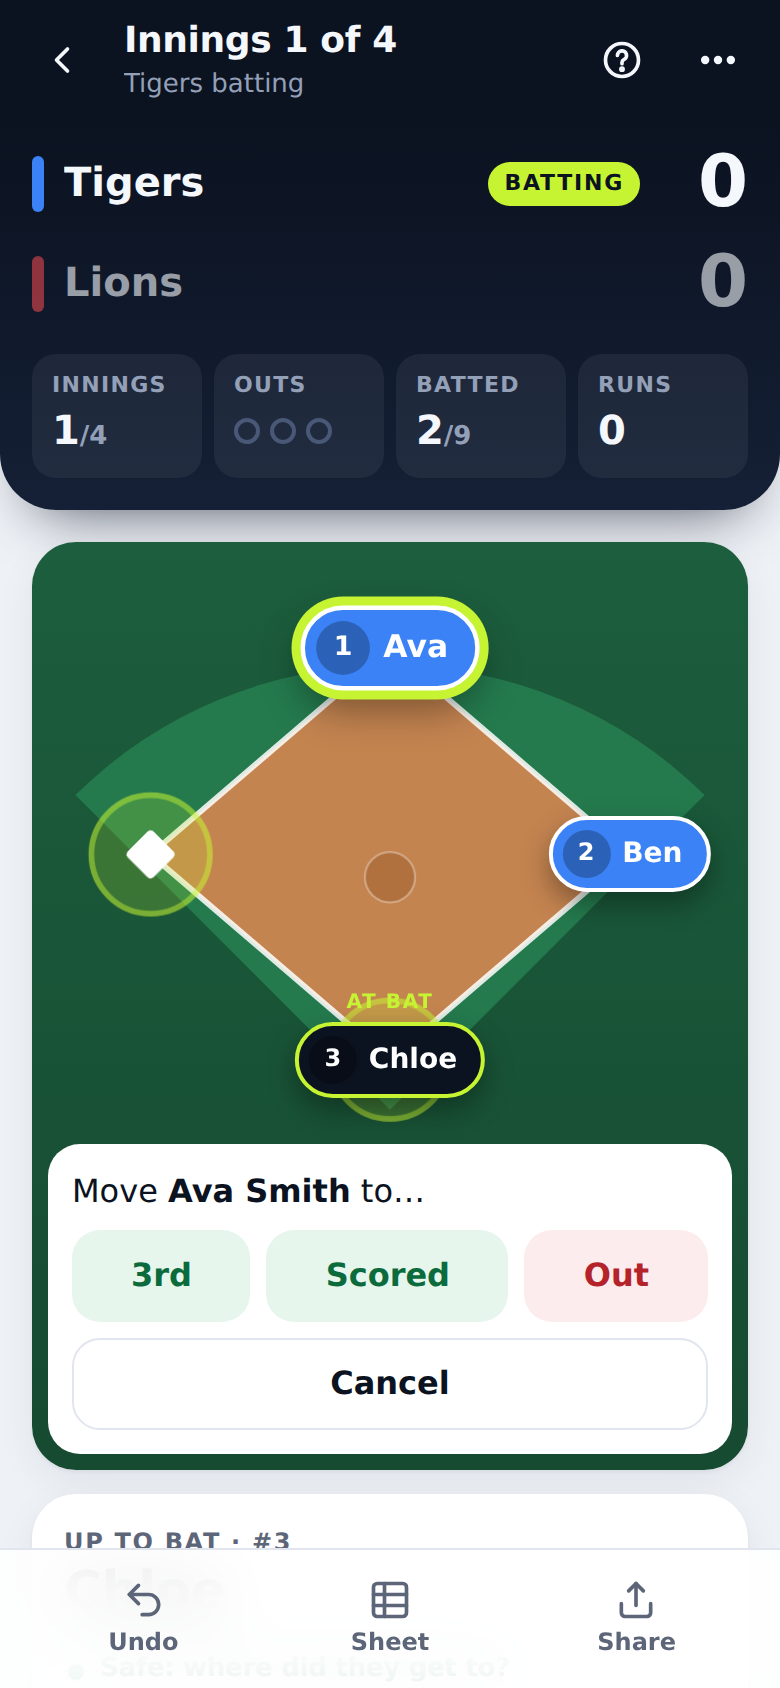
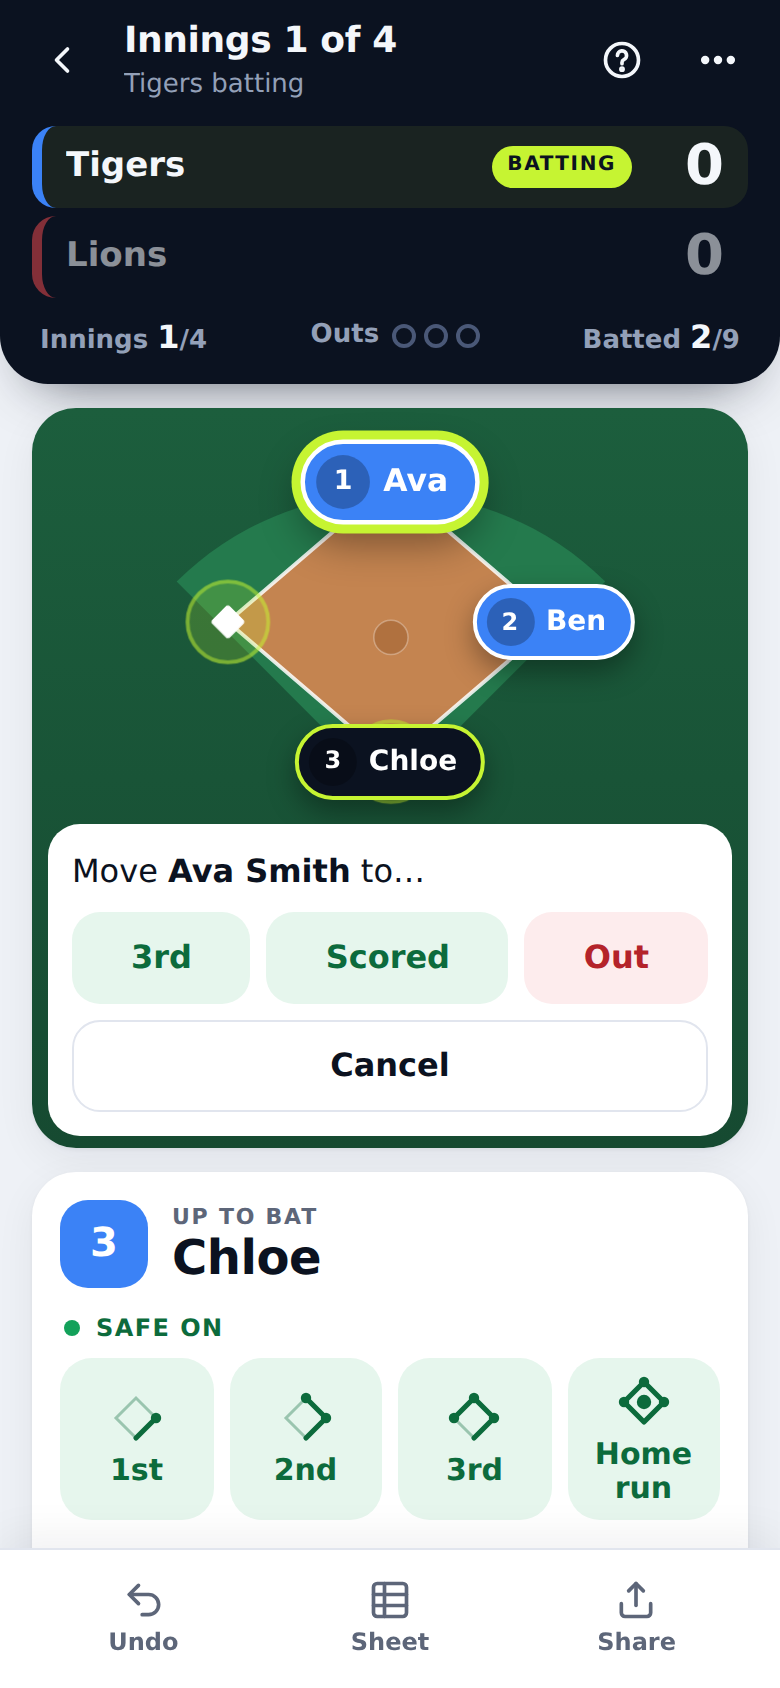
Clean up scoring screen: fix overlapping Out buttons, no text selection
- Fix Out buttons collapsing over the Scoresheet card (class clash
  with the outs counter)
- Slimmer scoreboard, smaller diamond and compact play buttons so all
  plays fit on one phone screen
- Coach tips move inside the panel and show during the first innings
- Toasts at the top so they never cover buttons; solid bottom bar
- Disable text selection, long-press callouts and double-tap zoom
  outside form fields

Claude-Session: https://claude.ai/code/session_01E99a7UZbF6EMRnxmZx3Hv6

diff --git a/css/style.css b/css/style.css
@@ -53,8 +53,14 @@ body {
   font: 16px/1.45 var(--font);
   -webkit-font-smoothing: antialiased;
   -webkit-tap-highlight-color: transparent;
+  -webkit-user-select: none;
+  user-select: none;
+  -webkit-touch-callout: none;
+  touch-action: manipulation;
   min-height: 100vh;
 }
+input, textarea { -webkit-user-select: text; user-select: text; -webkit-touch-callout: default; }
+img, svg, canvas { -webkit-user-drag: none; }
 [hidden] { display: none !important; }
 button { font: inherit; color: inherit; cursor: pointer; }
 button:disabled { cursor: default; }
@@ -86,7 +92,8 @@ h1, h2, h3, h4 { letter-spacing: -.01em; }
 .icon-btn.sm { width: 34px; height: 34px; border-radius: 10px; }
 .icon-btn.sm svg { width: 18px; height: 18px; }
 
-main { max-width: 640px; margin: 0 auto; padding: 16px 16px calc(env(safe-area-inset-bottom) + 110px); }
+main { max-width: 640px; margin: 0 auto; padding: 16px 16px calc(env(safe-area-inset-bottom) + 96px); }
+main.score { padding-top: 12px; }
 .section { font-size: 13px; font-weight: 700; text-transform: uppercase; letter-spacing: .06em; color: var(--muted); margin: 24px 4px 10px; }
 .muted { color: var(--muted); font-size: 14px; }
 .lead { color: var(--muted); margin: 4px 4px 16px; }
@@ -259,8 +266,7 @@ main { max-width: 640px; margin: 0 auto; padding: 16px 16px calc(env(safe-area-i
 .action-bar {
   position: fixed; left: 0; right: 0; bottom: 0; z-index: 10;
   display: flex; gap: 10px; padding: 12px 16px calc(env(safe-area-inset-bottom) + 12px);
-  background: color-mix(in srgb, var(--bg) 85%, transparent);
-  backdrop-filter: blur(16px); -webkit-backdrop-filter: blur(16px);
+  background: var(--bg);
   border-top: 1px solid var(--line);
 }
 .action-bar > * { max-width: 640px; }
@@ -268,25 +274,29 @@ main { max-width: 640px; margin: 0 auto; padding: 16px 16px calc(env(safe-area-i
 
 /* ---------- scoreboard ---------- */
 .scoreboard {
-  background: linear-gradient(180deg, var(--hero), var(--hero-2)); color: var(--hero-ink);
-  padding: 6px 16px 16px; border-radius: 0 0 28px 28px;
-  box-shadow: 0 16px 30px -18px rgba(11, 18, 32, .8);
+  background: var(--hero); color: var(--hero-ink);
+  padding: 2px 16px 12px; border-radius: 0 0 24px 24px;
+  box-shadow: 0 14px 28px -18px rgba(11, 18, 32, .8);
 }
 .scoreboard > * { max-width: 608px; margin-left: auto; margin-right: auto; }
-.sb-row { display: flex; align-items: center; gap: 10px; padding: 7px 0; opacity: .6; transition: opacity .2s; }
-.sb-row.batting { opacity: 1; }
-.sb-color { width: 6px; height: 28px; border-radius: 3px; background: var(--team); flex: none; }
-.sb-name { flex: 1; min-width: 0; font-size: 20px; font-weight: 800; overflow: hidden; white-space: nowrap; text-overflow: ellipsis; }
-.sb-bat { font-size: 11px; font-weight: 900; text-transform: uppercase; letter-spacing: .08em; padding: 3px 8px; border-radius: 999px; background: var(--accent); color: var(--accent-ink); }
-.sb-runs { font-size: 36px; font-weight: 900; line-height: 1; min-width: 44px; text-align: right; font-variant-numeric: tabular-nums; }
-.sb-meta { display: grid; grid-template-columns: repeat(4, 1fr); gap: 6px; margin-top: 10px; }
-.sb-meta > div { background: rgba(255, 255, 255, .06); border-radius: 12px; padding: 8px 10px; }
-.sb-meta small { display: block; font-size: 11px; font-weight: 700; text-transform: uppercase; letter-spacing: .06em; color: var(--hero-muted); }
-.sb-meta b { font-size: 20px; font-weight: 900; font-variant-numeric: tabular-nums; }
-.sb-meta em { font-style: normal; font-size: 13px; color: var(--hero-muted); font-weight: 700; }
-.outs { display: flex; gap: 5px; height: 30px; align-items: center; }
-.outs i { width: 13px; height: 13px; border-radius: 50%; border: 2px solid #4a5877; }
-.outs i.on { background: var(--out); border-color: var(--out); box-shadow: 0 0 10px rgba(229, 72, 77, .6); }
+.sb-teams { display: grid; gap: 4px; }
+.sb-team {
+  display: flex; align-items: center; gap: 10px; min-width: 0;
+  padding: 5px 12px; border-radius: 12px; border-left: 5px solid var(--team); opacity: .55;
+}
+.sb-team.batting { opacity: 1; background: rgba(198, 244, 50, .08); }
+.sb-name { flex: 1; min-width: 0; font-weight: 800; font-size: 17px; overflow: hidden; white-space: nowrap; text-overflow: ellipsis; }
+.sb-team small { flex: none; font-size: 10px; font-weight: 900; text-transform: uppercase; letter-spacing: .08em; padding: 3px 8px; border-radius: 999px; background: var(--accent); color: var(--accent-ink); }
+.sb-runs { flex: none; min-width: 36px; text-align: right; font-size: 28px; font-weight: 900; line-height: 1.1; font-variant-numeric: tabular-nums; }
+.sb-strip {
+  display: flex; justify-content: space-between; align-items: center; gap: 8px;
+  margin-top: 8px; padding: 0 4px; font-size: 13px; color: var(--hero-muted); font-weight: 600;
+}
+.sb-strip b { color: var(--hero-ink); font-size: 16px; font-weight: 900; }
+.sb-outs { display: flex; align-items: center; gap: 6px; }
+.out-dots { display: inline-flex; gap: 4px; }
+.out-dots i { width: 12px; height: 12px; border-radius: 50%; border: 2px solid #4a5877; }
+.out-dots i.on { background: var(--out); border-color: var(--out); box-shadow: 0 0 8px rgba(229, 72, 77, .6); }
 
 /* ---------- coach tip ---------- */
 .tip {
@@ -299,9 +309,14 @@ main { max-width: 640px; margin: 0 auto; padding: 16px 16px calc(env(safe-area-i
 .tip p { flex: 1; margin: 0; }
 .tip.warn, .tip.backup { border-left-color: #f5a524; align-items: center; }
 
+.coach { display: flex; align-items: center; gap: 8px; margin: 0 0 4px; padding: 8px 4px 8px 10px; border-radius: 12px; background: var(--surface-2); font-size: 13px; color: var(--muted); }
+.coach > svg { flex: none; width: 18px; height: 18px; }
+.coach p { flex: 1; margin: 0; }
+.coach .icon-btn { width: 28px; height: 28px; }
+
 /* ---------- field / diamond ---------- */
-.field-card { background: linear-gradient(180deg, #1c5e3d, #164a31); border-radius: 22px; padding: 8px; margin-bottom: 12px; box-shadow: var(--shadow); }
-.field { position: relative; aspect-ratio: 300 / 250; max-width: calc(34vh * 1.2); margin: 0 auto; }
+.field-card { background: linear-gradient(180deg, #1c5e3d, #164a31); border-radius: 22px; padding: 6px 8px; margin-bottom: 12px; box-shadow: var(--shadow); }
+.field { position: relative; aspect-ratio: 300 / 250; max-width: calc(23vh * 1.2); margin: 0 auto; }
 .field svg { position: absolute; inset: 0; width: 100%; height: 100%; }
 .grass { fill: #247a4d; }
 .dirt { fill: #c48450; }
@@ -325,7 +340,6 @@ main { max-width: 640px; margin: 0 auto; padding: 16px 16px calc(env(safe-area-i
 .chip.pop { animation: pop .35s ease; }
 .chip:disabled { opacity: .8; }
 .chip.batter { background: var(--hero); border-color: var(--accent); }
-.chip.batter::after { content: "AT BAT"; position: absolute; top: -18px; left: 50%; transform: translateX(-50%); font-size: 10px; letter-spacing: .08em; color: var(--accent); }
 .runner-panel { background: var(--surface); border-radius: 16px; padding: 12px; margin-top: 8px; animation: rise .2s ease both; }
 .runner-panel p { margin: 0 0 8px; }
 .runner-panel small { display: block; color: var(--muted); margin-top: 8px; }
@@ -333,27 +347,32 @@ main { max-width: 640px; margin: 0 auto; padding: 16px 16px calc(env(safe-area-i
 .runner-btns .btn { flex: 1 1 auto; min-height: 46px; padding: 8px 14px; }
 
 /* ---------- action panel ---------- */
-.panel { background: var(--surface); border-radius: 22px; box-shadow: var(--shadow); padding: 16px; margin-bottom: 12px; }
+.panel { background: var(--surface); border-radius: 22px; box-shadow: var(--shadow); padding: 14px; margin-bottom: 12px; }
 .panel-head small { display: block; font-size: 12px; font-weight: 800; text-transform: uppercase; letter-spacing: .07em; color: var(--muted); }
-.panel-head h2 { margin: 2px 0 12px; font-size: 26px; font-weight: 900; line-height: 1.15; }
-.group { font-size: 13px; font-weight: 800; margin: 14px 2px 8px; display: flex; align-items: center; gap: 8px; }
+.panel-head h2 { margin: 2px 0 10px; font-size: 22px; font-weight: 900; line-height: 1.15; }
+.group { font-size: 12px; font-weight: 800; text-transform: uppercase; letter-spacing: .06em; margin: 12px 2px 6px; display: flex; align-items: center; gap: 8px; }
 .group::before { content: ""; width: 8px; height: 8px; border-radius: 50%; }
 .safe-t { color: var(--safe-ink); } .safe-t::before { background: var(--safe); }
 .out-t { color: var(--out-ink); } .out-t::before { background: var(--out); }
-.plays { display: grid; grid-template-columns: repeat(2, 1fr); gap: 8px; }
-.plays.outs { grid-template-columns: repeat(3, 1fr); }
-@media (min-width: 520px) { .plays { grid-template-columns: repeat(4, 1fr); } }
+.batter-row { display: flex; align-items: center; gap: 12px; margin-bottom: 8px; }
+.batter-row small { display: block; font-size: 11px; font-weight: 800; text-transform: uppercase; letter-spacing: .08em; color: var(--muted); }
+.batter-row h2 { margin: 0; font-size: 24px; font-weight: 900; line-height: 1.1; overflow: hidden; text-overflow: ellipsis; white-space: nowrap; }
+.batter-row > div { min-width: 0; }
+.num-badge { flex: none; width: 44px; height: 44px; border-radius: 14px; display: grid; place-items: center; background: var(--team); color: #fff; font-size: 20px; font-weight: 900; }
+.plays { display: grid; gap: 8px; }
+.plays.hits { grid-template-columns: repeat(4, 1fr); }
+.plays.outplays { grid-template-columns: repeat(3, 1fr); }
 .play {
-  display: flex; flex-direction: column; align-items: flex-start; gap: 2px; text-align: left;
-  padding: 12px; min-height: 92px; border: 0; border-radius: 16px;
+  display: flex; flex-direction: column; align-items: center; justify-content: center; gap: 4px; text-align: center;
+  padding: 8px 4px; min-height: 66px; border: 0; border-radius: 16px; min-width: 0;
   transition: transform .08s ease;
 }
-.play:active { transform: scale(.96); }
-.play b { font-size: 16px; font-weight: 800; line-height: 1.15; margin-top: 4px; }
-.play small { font-size: 12px; opacity: .8; line-height: 1.25; }
+.play:active { transform: scale(.95); }
+.play b { font-size: 15px; font-weight: 800; line-height: 1.1; }
+.play small { font-size: 11px; opacity: .8; line-height: 1.2; }
 .play.safe { background: var(--safe-bg); color: var(--safe-ink); }
 .play.out { background: var(--out-bg); color: var(--out-ink); }
-.play .glyph { width: 28px; height: 28px; border-radius: 50%; display: grid; place-items: center; border: 2px solid currentColor; font-weight: 900; font-size: 14px; }
+.play .glyph { width: 26px; height: 26px; border-radius: 50%; display: grid; place-items: center; border: 2px solid currentColor; font-weight: 900; font-size: 14px; }
 .mini { width: 28px; height: 28px; }
 .md-base { fill: none; stroke: currentColor; stroke-width: 1.5; opacity: .35; }
 .md-run { fill: none; stroke: currentColor; stroke-width: 2.6; stroke-linecap: round; stroke-linejoin: round; }
@@ -381,9 +400,9 @@ main { max-width: 640px; margin: 0 auto; padding: 16px 16px calc(env(safe-area-i
   position: fixed; left: 0; right: 0; bottom: 0; z-index: 10;
   display: flex; justify-content: center; gap: 4px;
   padding: 6px 12px calc(env(safe-area-inset-bottom) + 6px);
-  background: color-mix(in srgb, var(--surface) 88%, transparent);
-  backdrop-filter: blur(16px); -webkit-backdrop-filter: blur(16px);
+  background: var(--surface);
   border-top: 1px solid var(--line);
+  box-shadow: 0 -6px 20px rgba(11, 18, 32, .06);
 }
 .bottom-bar button {
   flex: 1; max-width: 200px; display: flex; flex-direction: column; align-items: center; gap: 2px;
@@ -458,12 +477,12 @@ main { max-width: 640px; margin: 0 auto; padding: 16px 16px calc(env(safe-area-i
 
 /* ---------- toast ---------- */
 .toast {
-  position: fixed; left: 0; right: 0; margin: 0 auto; width: fit-content; bottom: calc(env(safe-area-inset-bottom) + 84px); z-index: 60;
+  position: fixed; left: 0; right: 0; margin: 0 auto; width: fit-content; top: calc(env(safe-area-inset-top) + 66px); z-index: 60;
   display: flex; align-items: center; gap: 14px;
   max-width: calc(100% - 32px); padding: 10px 10px 10px 18px; border-radius: 16px;
   background: var(--hero); color: var(--hero-ink); font-weight: 600; font-size: 15px;
   box-shadow: 0 12px 28px rgba(0, 0, 0, .35);
-  transform: translateY(20px); opacity: 0; pointer-events: none;
+  transform: translateY(-16px); opacity: 0; pointer-events: none;
   transition: opacity .2s, transform .2s;
 }
 .toast.show { opacity: 1; transform: none; pointer-events: auto; }

diff --git a/js/app.js b/js/app.js
@@ -11,15 +11,15 @@ const BASE = ['Home', '1st', '2nd', '3rd', 'Home'];
 const COLORS = ['#3b82f6', '#e5484d', '#16a34a', '#f59e0b', '#8b5cf6', '#ec4899', '#0ea5e9', '#f97316', '#334155'];
 
 const HITS = [
-  { r: 1, label: '1st base', hint: 'Ran to 1st' },
-  { r: 2, label: '2nd base', hint: 'Ran to 2nd' },
-  { r: 3, label: '3rd base', hint: 'Ran to 3rd' },
-  { r: 4, label: 'Home run', hint: 'All the way' },
+  { r: 1, label: '1st' },
+  { r: 2, label: '2nd' },
+  { r: 3, label: '3rd' },
+  { r: 4, label: 'Home run' },
 ];
 const OUTS = [
   { r: 'K', label: 'Struck out', hint: '3 strikes', glyph: 'K' },
-  { r: 'C', label: 'Caught', hint: 'Ball caught in the air', glyph: 'C' },
-  { r: 'T', label: 'Tagged / thrown out', hint: "Didn't beat the ball to base", glyph: 'T' },
+  { r: 'C', label: 'Caught', hint: 'In the air', glyph: 'C' },
+  { r: 'T', label: 'Tagged out', hint: 'Beaten to base', glyph: 'T' },
 ];
 const RULES = [
   { key: '3:9', title: '3 outs or 9 batters', text: 'Most junior leagues. Whichever comes first.' },
@@ -540,39 +540,38 @@ function undo() {
 }
 
 function coachTip(ph, bt) {
-  if (!tips) return '';
+  if (!tips || state.half >= 2) return '';
   const name = esc(playerName(bt, state.teams[bt].next));
   const text = {
     bat: game.events.length === 0
-      ? `Game on! Each time a player bats, tap what happened. Made a mistake? Tap <b>Undo</b>.`
-      : `Watch <b>${name}</b> hit, then tap where they ended up, or how they got out.`,
-    runners: 'Runners who had to move already have. Did anyone run further, or get out? Tap them on the diamond. Otherwise tap <b>Next batter</b>.',
+      ? 'Tap where the batter got to, or how they got out.'
+      : `Tap where <b>${name}</b> got to, or how they got out.`,
+    runners: 'Tap a runner on the diamond if they ran further or got out.',
     inningsOver: 'Tell the umpire, then swap: the other team bats now.',
     over: 'Get the umpire to check and sign the scoresheet, then share it.',
   }[ph];
-  return `<div class="tip">${ICON.bulb}<p>${text}</p><button class="icon-btn sm" data-action="hideTips" aria-label="Hide tips">${ICON.x}</button></div>`;
+  return `<div class="coach">${ICON.bulb}<p>${text}</p><button class="icon-btn sm" data-action="hideTips" aria-label="Hide tips">${ICON.x}</button></div>`;
 }
 
 function hero(bt) {
-  const inn = currentInning(state);
   const limit = batterLimit(game, bt);
-  const outsDots = game.maxOuts
+  const dots = game.maxOuts
     ? Array.from({ length: game.maxOuts }, (_, k) => `<i class="${k < state.outs ? 'on' : ''}"></i>`).join('')
     : `<b>${state.outs}</b>`;
+  const team = (i) => {
+    const t = game.teams[i];
+    const on = !state.over && i === bt;
+    return `<div class="sb-team ${on ? 'batting' : ''}" style="--team:${t.color || COLORS[i]}">
+      <span class="sb-name">${esc(t.name)}</span>${on ? '<small>Batting</small>' : ''}<b class="sb-runs">${total(state.teams[i].runs)}</b></div>`;
+  };
   return `
     <section class="scoreboard">
-      ${game.teams.map((t, i) => `
-        <div class="sb-row ${!state.over && i === bt ? 'batting' : ''}" style="--team:${t.color || COLORS[i]}">
-          <i class="sb-color"></i><span class="sb-name">${esc(t.name)}</span>
-          ${!state.over && i === bt ? '<span class="sb-bat">Batting</span>' : ''}
-          <b class="sb-runs">${total(state.teams[i].runs)}</b>
-        </div>`).join('')}
+      <div class="sb-teams">${team(0)}${team(1)}</div>
       ${state.over ? '' : `
-      <div class="sb-meta">
-        <div><small>Innings</small><b>${inn + 1}<em>/${game.innings}</em></b></div>
-        <div><small>Outs</small><span class="outs">${outsDots}</span></div>
-        <div><small>Batted</small><b>${state.batters}<em>/${limit}</em></b></div>
-        <div><small>Runs</small><b>${state.teams[bt].runs[inn] || 0}</b></div>
+      <div class="sb-strip">
+        <span>Innings <b>${currentInning(state) + 1}</b>/${game.innings}</span>
+        <span class="sb-outs">Outs <span class="out-dots">${dots}</span></span>
+        <span>Batted <b>${state.batters}</b>/${limit}</span>
       </div>`}
     </section>`;
 }
@@ -652,13 +651,15 @@ function panel(ph, bt) {
     const p = state.teams[bt].next;
     return `
       <section class="panel">
-        <div class="panel-head"><small>Up to bat · #${p + 1}</small><h2>${esc(playerName(bt, p))}</h2></div>
-        <h3 class="group safe-t">Safe: where did they get to?</h3>
-        <div class="plays">${HITS.map((h) => `
-          <button class="play safe" data-action="bat" data-r="${h.r}">${miniDiamond(h.r)}<b>${h.label}</b><small>${h.hint}</small></button>`).join('')}
+        <div class="batter-row"><span class="num-badge" style="--team:${game.teams[bt].color || COLORS[bt]}">${p + 1}</span>
+          <div><small>Up to bat</small><h2>${esc(playerName(bt, p))}</h2></div></div>
+        ${coachTip(ph, bt)}
+        <h3 class="group safe-t">Safe on</h3>
+        <div class="plays hits">${HITS.map((h) => `
+          <button class="play safe" data-action="bat" data-r="${h.r}">${miniDiamond(h.r)}<b>${h.label}</b></button>`).join('')}
         </div>
-        <h3 class="group out-t">Out: how?</h3>
-        <div class="plays outs">${OUTS.map((o) => `
+        <h3 class="group out-t">Out</h3>
+        <div class="plays outplays">${OUTS.map((o) => `
           <button class="play out" data-action="bat" data-r="${o.r}"><span class="glyph">${o.glyph}</span><b>${o.label}</b><small>${o.hint}</small></button>`).join('')}
         </div>
       </section>`;
@@ -668,7 +669,8 @@ function panel(ph, bt) {
     const next = state.teams[bt].next;
     return `
       <section class="panel">
-        <div class="panel-head"><small>Any runners go further?</small><h2>Tap a runner above to move them</h2></div>
+        <div class="panel-head"><small>After the play</small><h2>Any runners go further?</h2></div>
+        ${coachTip(ph, bt)}
         <button class="btn primary big" data-action="next">${reason ? 'Done: end of innings' : `Next batter: ${esc(shortName(bt, next))}`} ${ICON.chevron}</button>
       </section>`;
   }
@@ -680,7 +682,7 @@ function panel(ph, bt) {
       <section class="panel alert">
         ${ICON.whistle}
         <div class="panel-head"><small>${esc(reason)}</small><h2>Innings over</h2></div>
-        <p>Tell the umpire. ${game.teams[bt].name} scored <b>${state.teams[bt].runs[currentInning(state)] || 0}</b> this innings.</p>
+        <p>Tell the umpire. ${esc(game.teams[bt].name)} scored <b>${state.teams[bt].runs[currentInning(state)] || 0}</b> this innings.</p>
         <button class="btn primary big" data-action="endHalf">${lastHalf ? 'Finish the game' : `${esc(game.teams[nt].name)} bat next`} ${ICON.chevron}</button>
       </section>`;
   }
@@ -707,7 +709,6 @@ function renderScore() {
       right: `${helpBtn}<button class="icon-btn" data-action="menu" aria-label="More">${ICON.more}</button>` })}
     ${hero(bt)}
     <main class="score">
-      ${coachTip(ph, bt)}
       ${state.over ? '' : diamond(bt, ph)}
       ${panel(ph, bt)}
       <section class="card sheet-card ${sheetOpen ? 'open' : ''}" id="sheet-card">
@@ -1039,6 +1040,11 @@ ACTIONS.share = async () => {
 ACTIONS.download = () => sheetFile && download();
 
 // ---------- boot ----------
+// No OS text-selection / long-press callouts, except where typing.
+document.addEventListener('contextmenu', (e) => {
+  if (!e.target.closest('input, textarea')) e.preventDefault();
+});
+
 function fmtDate(d) {
   try { return new Date(d + 'T00:00').toLocaleDateString(undefined, { weekday: 'short', day: 'numeric', month: 'short' }); }
   catch { return d; }

diff --git a/sw.js b/sw.js
@@ -1,5 +1,5 @@
 // Offline support: cache the app shell, serve cache first, refresh in background.
-const CACHE = 'tball-v3';
+const CACHE = 'tball-v4';
 const SHELL = [
   './', 'index.html', 'css/style.css', 'js/app.js', 'js/model.js', 'js/draw.js', 'js/ui.js', 'js/storage.js',
   'manifest.webmanifest', 'icons/icon.svg', 'icons/icon-180.png', 'icons/icon-192.png', 'icons/icon-512.png', 'icons/icon-maskable-512.png',
